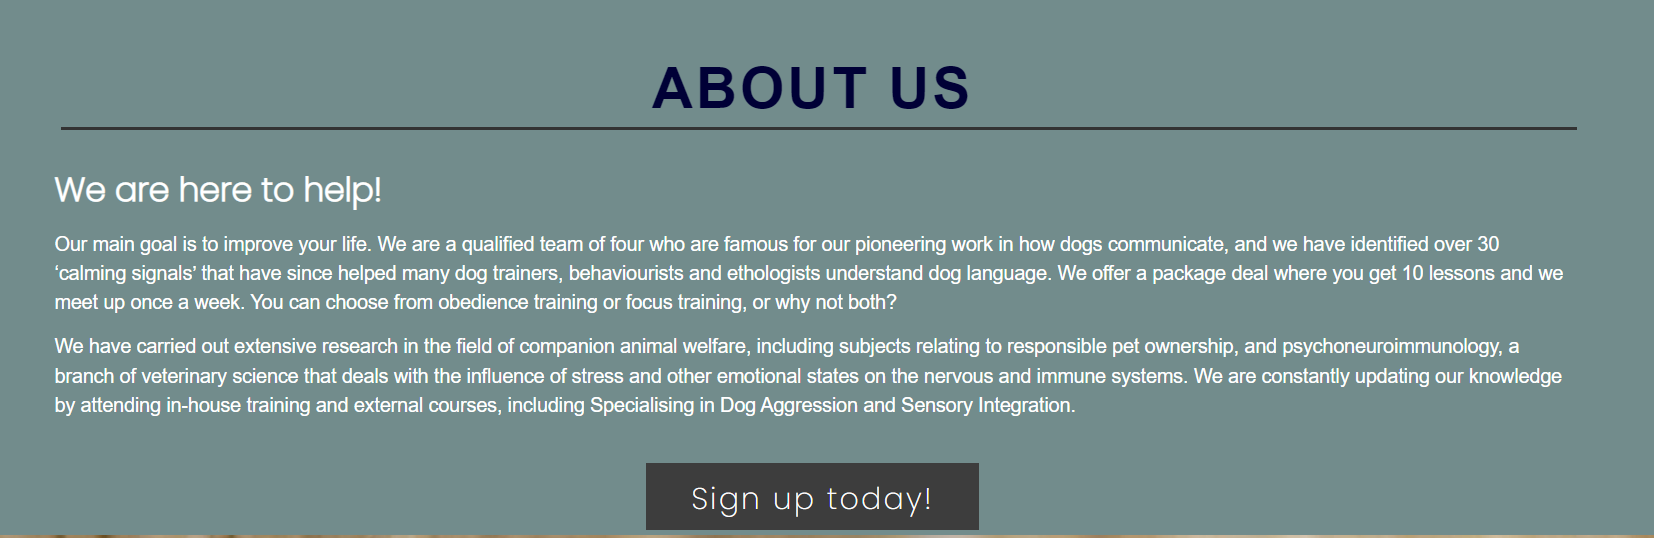
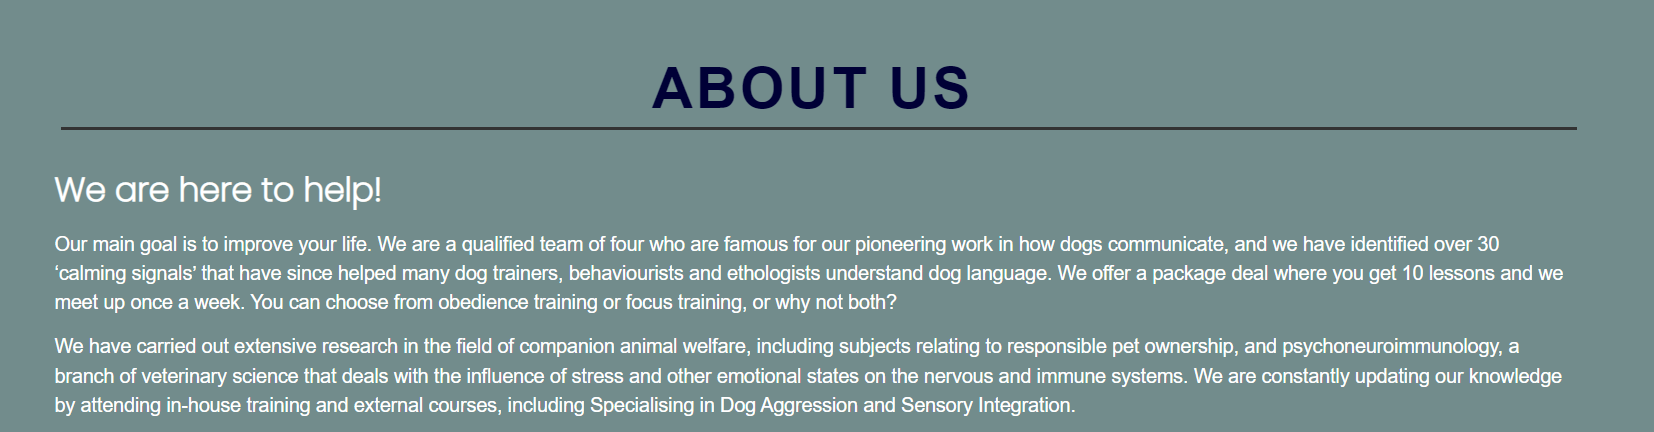
Add changes to images in readme

Changed region(s): [[0.0, 0.331, 1.0, 1.0], [0.0308, 0.1204, 0.9559, 0.3009]]

diff --git a/README.md b/README.md
@@ -2,7 +2,7 @@
 
 This project contains information and examples on how to best train your dog. It is vital for a strong connection between owner and dog, it provides mental stimulation and strengthens the bond. This project will provide tips and tricks to make your dog as happy as it can be. This website is not only for beginners, but also for those who want to improve their skills.
 
-![Responsive design](images/devices.png)
+![Responsive design](images/device2.png)
 # Features
 
 ## Navigation
@@ -26,7 +26,7 @@ This project contains information and examples on how to best train your dog. It
 * Beaneath that there is an image of three people playing with a dog
 * This page also ends with the same footer as the home page, this is where you find the different social media links.
 
-![About us image](images/AU1.png)
+![About us image](images/AU1.pngg)
 ![About us image](images/AU2.png)
 
 * ### Gallery
